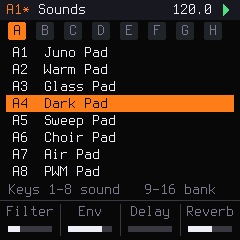
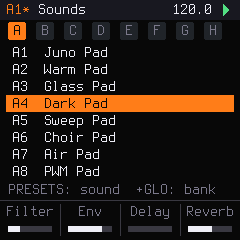
Sounds page: the keys play, PRESETS browses (GLO + PRESETS: a bank)
The white keys no longer pick sounds and banks, so every sound can be auditioned while browsing.

Changed region(s): [[0.0292, 0.7583, 0.2917, 0.8167], [0.5542, 0.7583, 0.7292, 0.8167]]

diff --git a/web/manual.html b/web/manual.html
@@ -61,8 +61,8 @@
   <table class="ref">
     <tr><th>To…</th><th>Do this</th></tr>
     <tr><td>Open the sound list</td><td><kbd>LFO</kbd></td></tr>
-    <tr><td>Step through sounds</td><td>Turn <kbd>PRESETS</kbd></td></tr>
-    <tr><td>Pick a sound / a bank</td><td>White keys 1–8 / 9–16 (on the Sounds page)</td></tr>
+    <tr><td>Step through sounds</td><td>Turn <kbd>PRESETS</kbd>. The keys keep playing, so you hear each sound as you browse</td></tr>
+    <tr><td>Jump a bank of 8</td><td><kbd>GLO</kbd> + turn <kbd>PRESETS</kbd> (on the Sounds page)</td></tr>
     <tr><td>Filter cutoff · release · delay · reverb</td><td><kbd>K1</kbd> · <kbd>K2</kbd> · <kbd>K3</kbd> · <kbd>K4</kbd></td></tr>
     <tr><td>Resonance · attack · delay time · reverb time</td><td>Hold <kbd>GLO</kbd> and turn <kbd>K1</kbd>–<kbd>K4</kbd></td></tr>
   </table>

diff --git a/web/tour.js b/web/tour.js
@@ -25,7 +25,7 @@ const LESSONS = [
     done: () => st().page === PG.SOUNDS },
   { ch: 'Sounds', t: 'Browse the sounds', target: '#enc6',
     x: `<p>Turn <b>PRESETS</b> (drag it up, or scroll on it) to step through the sounds. Play a key after each one.</p>
-        <p>On the Sounds page the white keys work too: keys 1–8 pick a sound, 9–16 pick a bank.</p>`,
+        <p>Hold <b>GLO</b> (<kbd>Shift</kbd>) while turning to jump a whole bank of 8. The keys always play, so you can audition as you go.</p>`,
     done: (b) => get(ID().J6_P_SOUND) !== b.sound },
   { ch: 'Sounds', t: 'Shape it with the knobs', target: '#enc2',
     x: `<p><b>K1</b> is the filter. Turn it down and play: the sound gets darker. <b>K2</b> is the release, <b>K3</b> the delay, <b>K4</b> the reverb.</p>

diff --git a/firmware/src/hera_app.c b/firmware/src/hera_app.c
@@ -165,8 +165,8 @@ static void enc_presets(int32_t d, const j6_status_t *s)
         int32_t v = (j6_engine_get(J6_P_CHORD_SET) + d + 1000) % (int32_t)J6_CHORD_SETS;
         j6_engine_set(J6_P_CHORD_SET, v);
         popup_num("Chord set", v + 1);
-    } else if (pg == PG_SOUNDS) {
-        j6_engine_set(J6_P_SOUND, clampi(j6_engine_get(J6_P_SOUND) + d, 0, (int32_t)J6_SOUNDS - 1));
+    } else if (pg == PG_SOUNDS) {              /* a sound a detent, GLO a bank */
+        j6_engine_set(J6_P_SOUND, clampi(j6_engine_get(J6_P_SOUND) + d * (ui.glo ? 8 : 1), 0, (int32_t)J6_SOUNDS - 1));
     } else if (pg == PG_PATTERNS) {
         j6_engine_cmd(J6_CMD_PATTERN, clampi((int32_t)s->pattern + d, 0, (int32_t)J6_PATTERNS - 1));
     } else if (pg == PG_SEQ && s->sel_step != J6_NONE) {
@@ -242,12 +242,7 @@ static uint32_t page_key(uint32_t key, const j6_status_t *s)
         j6_engine_cmd(J6_CMD_PATTERN, p);
         return 1;
     }
-    if (ui.page == PG_SOUNDS) {
-        int32_t cur = j6_engine_get(J6_P_SOUND), v = w < 8 ? cur / 8 * 8 + w : (w - 8) * 8 + cur % 8;
-        j6_engine_set(J6_P_SOUND, v);
-        return 1;
-    }
-    return 0;
+    return 0;                                  /* the sounds page: keys play, so you hear each sound */
 }
 
 static void keys(const j6_status_t *s)

diff --git a/firmware/src/hera_ui.c b/firmware/src/hera_ui.c
@@ -657,7 +657,7 @@ static void body_sounds(void)
         h_cat(p, j6_sounds[s].name);
         h_text(12, y + 1, b, now ? H_BG : H_TXT, bg);
     }
-    h_text(8, 162, "Keys 1-8 sound   9-16 bank", H_DIM, H_BG);
+    h_text(8, 162, "PRESETS: sound  +GLO: bank", H_DIM, H_BG);
 }
 static uint32_t key_sounds(void) { return h_mix(2166136261u, j6_engine_pattern(st.pattern)->sound); }
 

diff --git a/README.md b/README.md
@@ -101,7 +101,7 @@ All 64 patterns, 8 banks × 8, on one grid (**GLO + SEQ**).
 ### Sounds
 <img src="docs/screens/sounds.png" width="240" align="right" alt="Sounds page">
 
-64 Juno-style sounds in 8 banks: pads, strings, brass, keys, bass, leads, plucks and effects (**LFO**). Choose them with **PRESETS** or the white keys.
+64 Juno-style sounds in 8 banks: pads, strings, brass, keys, bass, leads, plucks and effects (**LFO**). Browse them with **PRESETS** (GLO + PRESETS jumps a bank) while the keys keep playing, so you hear each one as you go.
 
 The voice is after Clipper's Juno engine:
 - saw, pulse and sub oscillators, plus noise;
